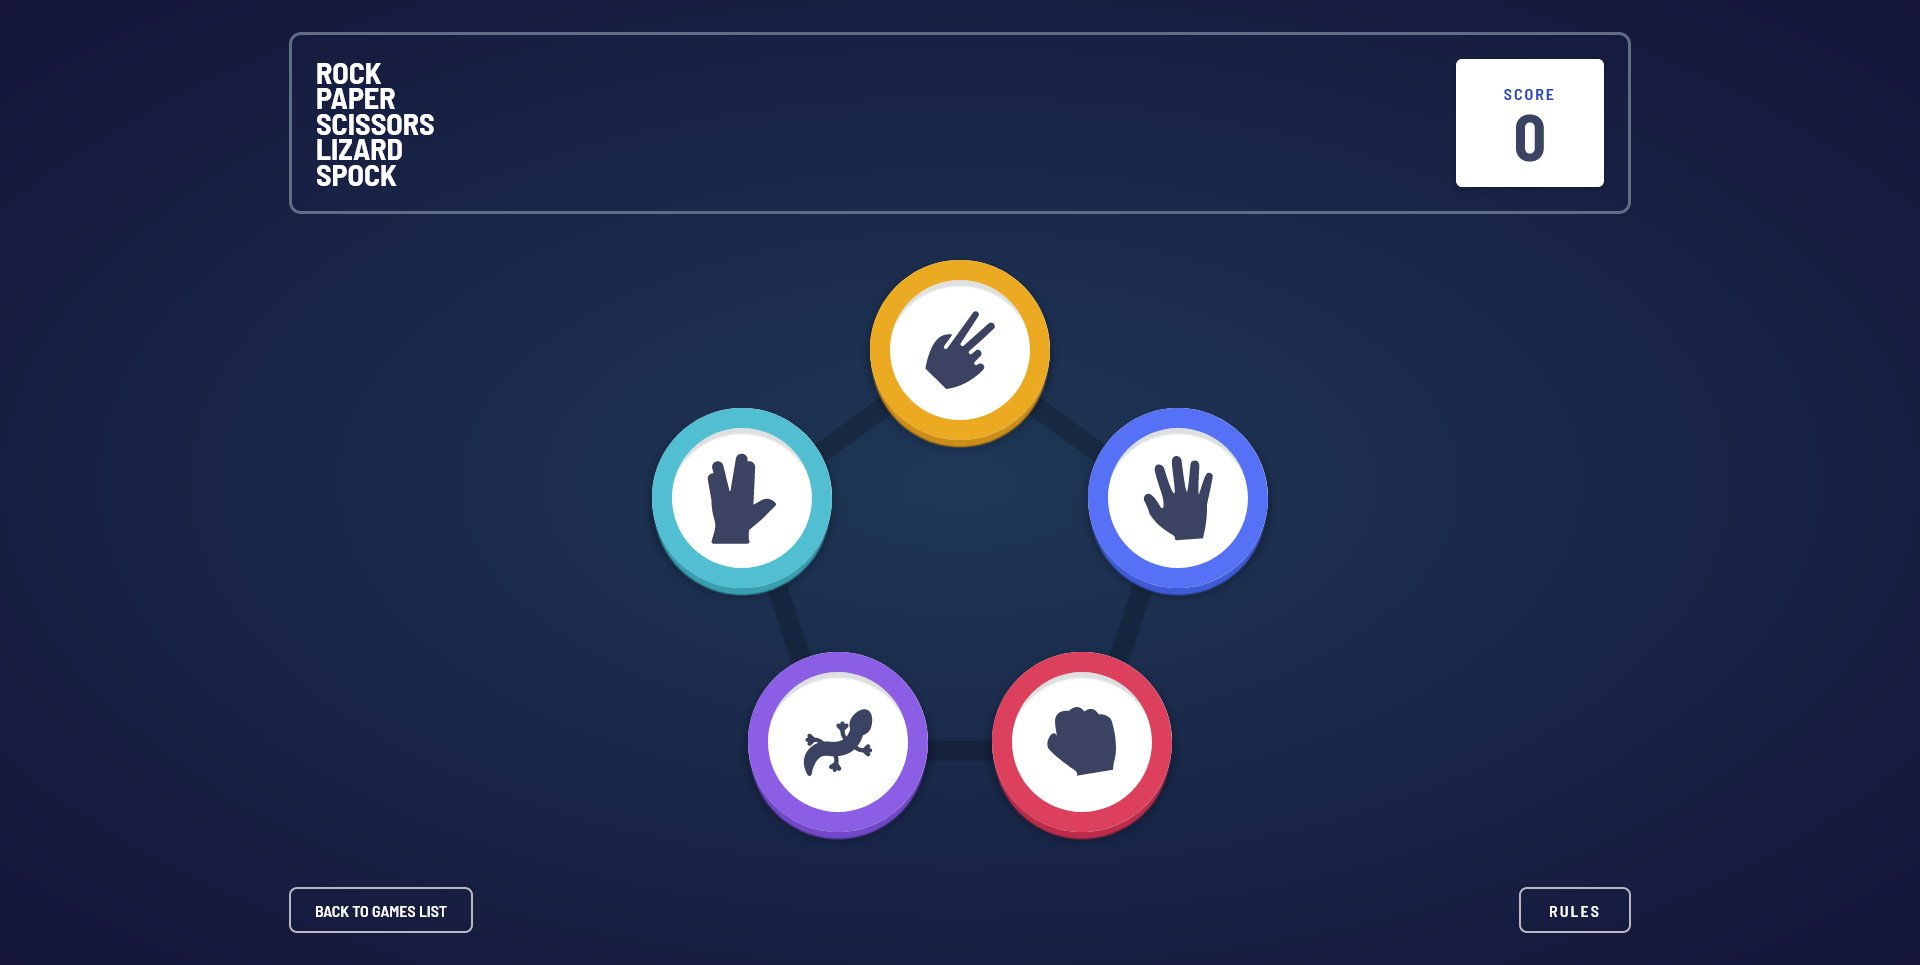
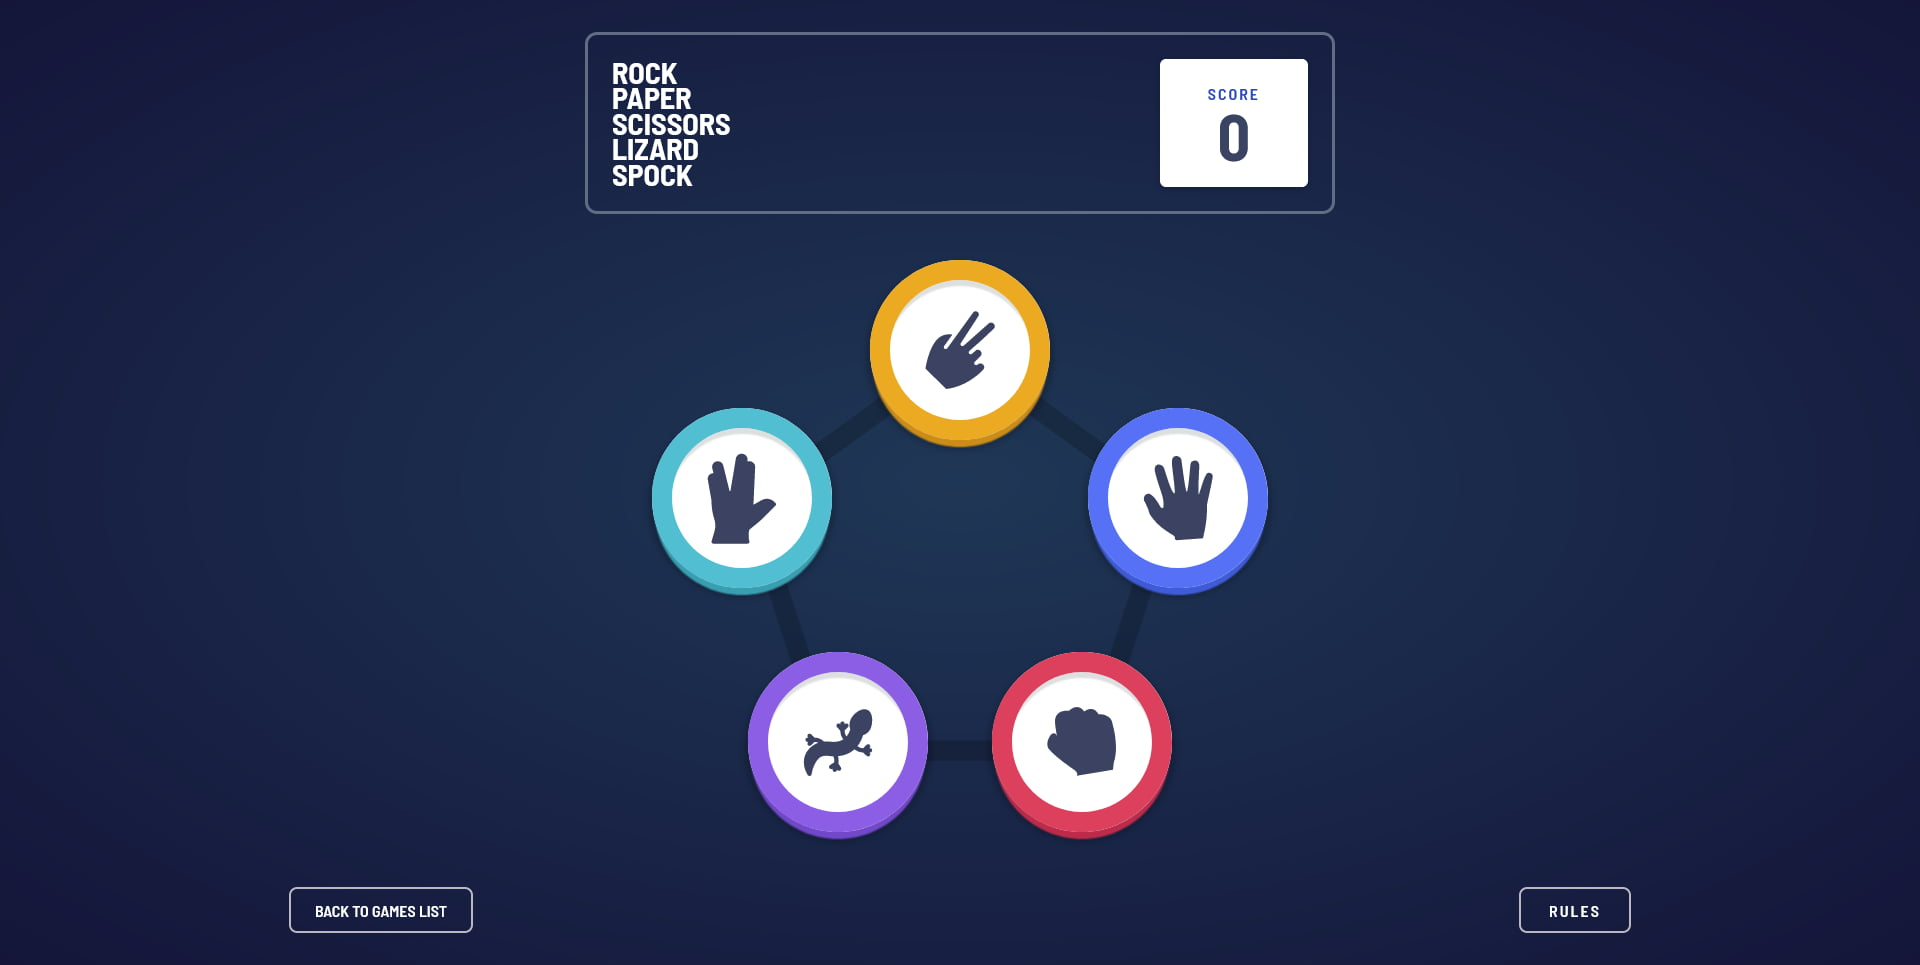
fixed choosenItemCard horizontal animation bug (were different sizes of cards gap before animation, that depended on game result text)

diff --git a/src/components/RockPaperGame/RockPaperGameResult/RockPaperGameResult.tsx b/src/components/RockPaperGame/RockPaperGameResult/RockPaperGameResult.tsx
@@ -1,4 +1,4 @@
-import { FC, useState, useEffect } from 'react';
+import { FC, useState, useEffect, useRef } from 'react';
 
 import {
   IRockPaperGameItem,
@@ -56,6 +56,15 @@ const rockPaperGameItems: IRockPaperGameItem[] = [
     ],
   },
 ];
+const getWinItem = (choosenItems: IRockPaperGameChoosenItem, rockPaperGameItems: IRockPaperGameItem[]): RockPaperGameItemName | null => {
+  if (choosenItems.player === choosenItems.ai) {
+    return null;
+  } else {
+    const winItem = rockPaperGameItems.find(item => item.name === choosenItems.player)?.beats.includes(choosenItems.ai) ? choosenItems.player : choosenItems.ai;
+
+    return winItem;
+  }
+};
 const gameItemChangeSizeBreakPoint = 910;
 
 const RockPaperGameResult: FC<RockPaperGameResultProps> = ({
@@ -63,20 +72,13 @@ const RockPaperGameResult: FC<RockPaperGameResultProps> = ({
   onPlayAgainButtonHandler,
   changeScore,
 }) => {
-  const [winItem, setWinItem] = useState<RockPaperGameItemName | null>(null);
-  const [isItemBigSize, setIsItemBigSize] = useState<boolean>(window.innerWidth > gameItemChangeSizeBreakPoint);
+  const [winItem] = useState<RockPaperGameItemName | null>(getWinItem(choosenItems, rockPaperGameItems));
   const [isShowAiChoosenItem, setIsShowAiChoosenItem] = useState<boolean>(false);
   const [isShowResult, setIsShowResult] = useState<boolean>(false);
-
-  useEffect(() => {
-    const windowResizeHandler = () => {
-      setIsItemBigSize(window.innerWidth > gameItemChangeSizeBreakPoint);
-    };
-
-    window.addEventListener('resize', windowResizeHandler);
-
-    return () => window.removeEventListener('resize', windowResizeHandler);
-  }, []);
+  const [isItemBigSize, setIsItemBigSize] = useState<boolean>(window.innerWidth > gameItemChangeSizeBreakPoint);
+  const [choosenItemTranslateXVariable, setChoosenItemTranslateXVariable] = useState<number>(50);
+  const gameResultWrapperElement = useRef<HTMLDivElement>(null);
+  const gameResultControlsElement = useRef<HTMLDivElement>(null);
 
   useEffect(() => {
     setTimeout(() => {
@@ -87,12 +89,6 @@ const RockPaperGameResult: FC<RockPaperGameResultProps> = ({
       }, 1000);
 
     }, 1000);
-
-    if (choosenItems.player !== choosenItems.ai) {
-      const winner = rockPaperGameItems.find(item => item.name === choosenItems.player)?.beats.includes(choosenItems.ai) ? choosenItems.player : choosenItems.ai;
-
-      setWinItem(winner);
-    }
   // eslint-disable-next-line react-hooks/exhaustive-deps
   }, []);
 
@@ -105,14 +101,40 @@ const RockPaperGameResult: FC<RockPaperGameResultProps> = ({
 
   }, [isShowResult, winItem, choosenItems.player, changeScore]);
 
+  // set value using in CSS variable '--translate-x-value' (needed for animate choosenItemCard elements horizontal movement)
+  useEffect(() => {
+    if (!gameResultWrapperElement.current || !gameResultControlsElement.current) {
+      return;
+    }
+    const { current: wrapper } = gameResultWrapperElement;
+    const { current: element } = gameResultControlsElement;
+    const elementWidth = element.offsetWidth;
+    const elementHorizontalGap = parseInt(window.getComputedStyle(wrapper).getPropertyValue('column-gap'));
+    const translateXValue = elementWidth / 2 + elementHorizontalGap;
+
+    setChoosenItemTranslateXVariable(translateXValue);
+  }, []);
+
+  useEffect(() => {
+    const windowResizeHandler = () => {
+      setIsItemBigSize(window.innerWidth > gameItemChangeSizeBreakPoint);
+    };
+
+    window.addEventListener('resize', windowResizeHandler);
+
+    return () => window.removeEventListener('resize', windowResizeHandler);
+  }, []);
+
   return (
     <div
       className={styles.rockPaperGameResultWrapper}
       data-is-ai-choice-visible={isShowAiChoosenItem}
       data-is-result-visible={isShowResult}
+      ref={gameResultWrapperElement}
     >
       <div
         className={styles.choosenItemCard}
+        style={{ ['--translate-x-value' as string] : `calc(${choosenItemTranslateXVariable}px - 15%)` }}
         data-is-player={true}
         data-is-outlined={winItem === choosenItems.player}
       >
@@ -123,7 +145,10 @@ const RockPaperGameResult: FC<RockPaperGameResultProps> = ({
           isOutlined={(winItem && isShowResult) ? winItem === choosenItems.player : false}
         />
       </div>
-      <div className={styles.resultControls}>
+      <div
+        className={styles.resultControls}
+        ref={gameResultControlsElement}
+      >
         <span className={styles.resultText}>{winItem ? `YOU ${winItem === choosenItems.player ? 'WIN' : 'LOSE'} ` : 'IT\'S A DRAW'}</span>
         <Button
           title='PLAY AGAIN'
@@ -136,6 +161,7 @@ const RockPaperGameResult: FC<RockPaperGameResultProps> = ({
         className={styles.choosenItemCard}
         data-is-ai={true}
         data-is-outlined={winItem === choosenItems.ai}
+        style={{ ['--translate-x-value' as string] : `calc((${choosenItemTranslateXVariable}px - 15%) * -1)` }}
       >
         <span className={styles.choosenItemCardTitle}>THE HOUSE PICKED</span>
         <RockPaperGameItem

diff --git a/src/components/RockPaperGame/RockPaperGameResult/RockPaperGameResult.module.css b/src/components/RockPaperGame/RockPaperGameResult/RockPaperGameResult.module.css
@@ -19,17 +19,15 @@
 
 .choosenItemCard {
   --translate-to-zero: translateX(0);
-  --translate-x-value: 50%
+  transform: translateX(var(--translate-x-value)); /* variable '--translate-x-value' computed in RockPaperGameResult component */
 }
 
 .choosenItemCard[data-is-player='true'] {
   grid-area: player;
-  transform: translateX(var(--translate-x-value));
 }
 
 .choosenItemCard[data-is-ai='true'] {
   grid-area: ai;
-  transform: translateX(calc(var(--translate-x-value) * -1));
 }
 
 .choosenItemCard[data-is-outlined='false'] {
@@ -56,7 +54,7 @@
 
 .resultControls > * {
   width: 100%;
-  max-width: max-content;
+  min-width: max-content;
 }
 
 .rockPaperGameResultWrapper[data-is-ai-choice-visible='true'] .choosenItemCard {
@@ -94,13 +92,17 @@
 }
 
 /* adaptive */
-@media (max-width: 992px) {
+@media (max-width: 1020px) {
   .rockPaperGameResultWrapper {
-    column-gap: 1vw;
+    column-gap: 3vw;
   }
 
-  .choosenItemCard {
-    --translate-x-value: 30%
+  .resultControls {
+    gap: 1.5em;
+  }
+
+  .resultText {
+    font-size: calc(var(--fs-xxxl) * 1.7);
   }
 }
 
@@ -109,8 +111,8 @@
     column-gap: 2em;
   }
 
-  .choosenItemCard {
-    --translate-x-value: 50%
+  .choosenItemCard[data-is-player='true'] {
+    margin-right: 1em;
   }
 
   .choosenItemCardTitle {
@@ -126,7 +128,13 @@
   }
 }
 
-@media (max-width: 660px) {
+@media (max-width: 768px) {
+  .rockPaperGameResultWrapper {
+    column-gap: 1em;
+  }
+}
+
+@media (max-width: 690px) {
   .rockPaperGameResultWrapper {
     grid-template-areas:
     'player ai'
@@ -139,15 +147,19 @@
     animation: none;
   }
 
+  .choosenItemCard[data-is-player='true'] {
+    margin-right: 0;
+  }
+
+  .resultControls {
+    margin-right: 1em;
+  }
+
   .choosenItemCardTitle {
     order: 1;
   }
 
-  .choosenItemCard[data-is-player='true'] {
-    transform: translateX(0);
-  }
-
-  .choosenItemCard[data-is-ai='true'] {
+  .choosenItemCard {
     transform: translateX(0);
   }
 
@@ -185,6 +197,7 @@
 
   .resultControls {
     gap: 0.7em;
+    margin-right: 0;
     transform: translateY(-30%);
   }
 

diff --git a/src/pages/RockPaperGamePage/RockPaperGamePage.tsx b/src/pages/RockPaperGamePage/RockPaperGamePage.tsx
@@ -80,9 +80,9 @@ const RockPaperGamePage: FC<RockPaperGamePageProps> = () => {
     setScore(prevScore => prevScore + result);
   }, []);
 
-  const onPlayAgainButtonHandler = useCallback(() => {
+  const onPlayAgainButtonHandler = () => {
     setIsShowResult(false);
-  }, []);
+  };
 
   const onRulesButtonClickHandler = () => {
     setModalTitle('RULES');

diff --git a/src/components/RockPaperGame/RockPaperTitleScore/RockPaperTitleScore.tsx b/src/components/RockPaperGame/RockPaperTitleScore/RockPaperTitleScore.tsx
@@ -17,6 +17,7 @@ const RockPaperTitleScore: FC<RockPaperTitleScoreProps> = ({
   gameType,
   onClickHandler,
 }) => {
+
   return (
     <div className={styles.titleScoreWrapper}>
       <ul

diff --git a/src/components/Modal/Modal.module.css b/src/components/Modal/Modal.module.css
@@ -2,7 +2,7 @@
   position: absolute;
   left: 0;
   right: 0;
-  height: 100%;
+  height: 100vh;
   display: flex;
   justify-content: center;
   align-items: center;
